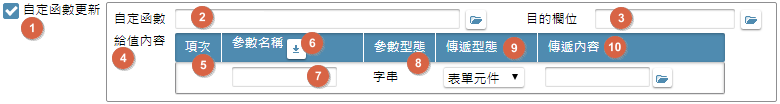
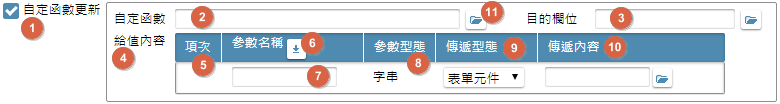
元件、按鍵加註

Changed region(s): [[0.6154, 0.0, 0.6462, 0.2308]]

diff --git a/8.10.2/IDE/Specification/ButtonAnnotation/README.md b/8.10.2/IDE/Specification/ButtonAnnotation/README.md
@@ -11,6 +11,8 @@
 ## <div id="form-action">動作說明</div>
 * 依規格關聯-主畫面 結構清單駐留元件及指定加註條件, 顯示本單內容
 * 依規格關聯-主畫面 工具列.編修鍵, 進入本單的編輯模式
+* 參照 [單據異動資料按鍵操作通則][link_rulebutton2]
+    * 下列欄位, 除規格說明中有額外說明, 否則所有欄位在瀏覽狀態: 除能 ; 編輯狀態: 致能
 
 ## <div id="object-desc">欄位說明</div>
 * <p id="fieldbreak1" style="color:blue;font-weight:bold">基本區塊</p>
@@ -19,187 +21,194 @@
         ![pic][image_fieldbreak1_STD]
     * MAE</br>
         ![pic][image_fieldbreak1_MAE]
-    * (1)按鈕名稱
+    * `(1)按鈕名稱`
         * 用途說明
         * 規格說明
             * [使用多語詞庫通則][link_ruledialog2], 回傳:按鍵多語料號, 顯示:多語詞彙
-    * (2)料號
+    * `(2)料號`
         * 用途說明
         * 規格說明
             * 顯示傳入的按鍵料號
-    * (3)按鈕類型
+    * `(3)按鈕類型`
         * 用途說明
         * 規格說明
             * 選項 系統按鈕/工具列選單/工具列按鈕/選單內選項/傳統按鈕
             * 顯示按鍵的類型; 當 [新增表單/報表][link_AddFormReport_fieldbreak1](n)設計類型=APP，隱藏
-    * (4)對應熱鍵
+    * `(4)對應熱鍵`
         * 用途說明
         * 規格說明
-            * (3)按鈕類型=工具列選單/工具列按鈕 時, 下拉熱鍵主檔, 取得功能類別=1.自定鍵的項目
-            * (3)按鈕類型=選單內選項 時, 下拉熱鍵主檔, 取得功能類別=2.小選單_選項的項目
-            * (3)按鈕類型=工具列選單/工具列按鈕 and (3)按鈕類型<>選單內選項 時, 本欄位, 除能;
-            * 當 [新增表單/報表][link_AddFormReport_fieldbreak1](n)設計類型=APP，隱藏
-    * (17)系統按鈕
+            * `(3)按鈕類型`=工具列選單/工具列按鈕 時, 下拉熱鍵主檔, 取得功能類別=1.自定鍵的項目
+            * `(3)按鈕類型`=選單內選項 時, 下拉熱鍵主檔, 取得功能類別=2.小選單_選項的項目
+            * `(3)按鈕類型`=工具列選單/工具列按鈕 and `(3)按鈕類型`<>選單內選項 時, 本欄位, 除能;
+            * 當 [新增表單/報表][link_AddFormReport_fieldbreak1](n)`設計類型`=APP，隱藏
+    * `(17)系統按鈕`
         * 用途說明
         * 規格說明
-            * (3)按鈕類型=系統按鈕 時, 致能
-            * 當 [新增表單/報表][link_AddFormReport_fieldbreak1](n)設計類型=APP，本區皆隱藏
-    * (5)保留系統按鈕功能
-        * 用途說明
-        * 規格說明
-            * 預設=true
-            * (3)按鈕類型=系統按鈕 時, 致能
-    * (6)使用系統提示訊息盒
+            * `(3)按鈕類型`=系統按鈕 時, 致能
+            * 當 [新增表單/報表][link_AddFormReport_fieldbreak1](n)`設計類型`=APP，本區皆隱藏
+    * `(5)保留系統按鈕功能`
         * 用途說明
         * 規格說明
             * 預設=true
-            * (3)按鈕類型=系統按鈕 時, 致能
-    * (7)隱藏按鈕類別
+            * `(3)按鈕類型`=系統按鈕 時, 致能
+    * `(6)使用系統提示訊息盒`
+        * 用途說明
+        * 規格說明
+            * 預設=true
+            * `(3)按鈕類型`=系統按鈕 時, 致能
+    * `(7)隱藏按鈕類別`
         * 用途說明
         * 規格說明
             * 選項 被動運作處理/控制記錄移動
-            * 當 (3)按鈕類型=隱藏按鈕時, 致能
-            * 當 (3)按鈕類型=隱藏按鈕 且 [新增表單/報表][link_AddFormReport_fieldbreak1](n)設計類型=APP，預設為 被動運作處理 且 隱藏
-    * (8)歸屬工具列選單
+            * 當 `(3)按鈕類型`=隱藏按鈕時, 致能
+            * 當 `(3)按鈕類型`=隱藏按鈕 且 [新增表單/報表][link_AddFormReport_fieldbreak1](n)`設計類型`=APP，預設為 被動運作處理 且 隱藏
+    * `(8)歸屬工具列選單`
         * 用途說明
-            * 顯示子選單所屬的按鈕名稱; 只有在(3)按鈕類型=選單內選項 時, 有值
+            * 顯示子選單所屬的按鈕名稱; 只有在`(3)按鈕類型`=選單內選項 時, 有值
         * 規格說明    
-            * 當 [新增表單/報表][link_AddFormReport_fieldbreak1](n)設計類型=APP，隱藏
-    * (9)順序
+            * 當 [新增表單/報表][link_AddFormReport_fieldbreak1](n)`設計類型`=APP，隱藏
+    * `(9)順序`
         * 用途說明
-            * 顯示子選單所屬的按鈕出現的順序; 只有在 (3)按鈕類型=選單內選項 時, 有值
+            * 顯示子選單所屬的按鈕出現的順序; 只有在 `(3)按鈕類型`=選單內選項 時, 有值
         * 規格說明     
-            * 當 [新增表單/報表][link_AddFormReport_fieldbreak1](n)設計類型=APP，隱藏
-    * (10)致能時機
+            * 當 [新增表單/報表][link_AddFormReport_fieldbreak1](n)`設計類型`=APP，隱藏
+    * `(10)致能時機`
         * 用途說明
         * 規格說明
             * 選項 新增/修改/瀏覽
-            * 當 [新增表單/報表][link_AddFormReport_fieldbreak1](n)設計類型=APP，本區皆隱藏  
-    * (11)新增
+            * 當 [新增表單/報表][link_AddFormReport_fieldbreak1](n)`設計類型`=APP，本區皆隱藏  
+    * `(11)新增`
         * 用途說明
         * 規格說明
-            * 預設=false
-    * (12)修改
+            * 預設未勾選
+    * `(12)修改`
         * 用途說明
         * 規格說明
-            * 預設=false
-    * (13)瀏覽
+            * 預設未勾選
+    * `(13)瀏覽`
         * 用途說明
         * 規格說明
-            * 預設=true
-    * (14)遊標可駐留
+            * 預設勾選
+    * `(14)遊標可駐留`
         * 用途說明
         * 規格說明
-            * 預設=false
-            * 當 [新增表單/報表][link_AddFormReport_fieldbreak1](n)設計類型=APP，隱藏
-    * (15)操作提示
+            * 預設未勾選
+            * 當 [新增表單/報表][link_AddFormReport_fieldbreak1](n)`設計類型`=APP，隱藏
+    * `(15)操作提示`
         * 用途說明
         * 規格說明
             * [使用多語詞庫通則][link_ruledialog2], 回傳:多語料號, 顯示:多語詞彙
-            * 當 [新增表單/報表][link_AddFormReport_fieldbreak1](n)設計類型=APP，隱藏
-    * (16)功能描述: 
+            * 當 [新增表單/報表][link_AddFormReport_fieldbreak1](n)`設計類型`=APP，隱藏
+    * `(16)功能描述`
         * 用途說明
         * 規格說明
-            * 顯示本按鍵於[規格描述]()的簡述內容
+            * 顯示本按鍵於[規格描述][link_SpecificationsRemarks]的簡述內容
+
 * <p id="fieldbreak2" style="color:blue;font-weight:bold">勾選記錄區塊</p>
 
     * STD</br>
         ![pic][image_fieldbreak2_STD]
     * MAE
         * 不支援, 區塊隱藏
-    * (6)勾選記錄
+    * `(6)勾選記錄`
         * 用途說明
         * 規格說明
-            * 當 [新增表單/報表][link_AddFormReport_fieldbreak1](n)設計類型=APP，隱藏
-    * (1)檔區
+            * 當 [新增表單/報表][link_AddFormReport_fieldbreak1](n)`設計類型`=APP，隱藏
+    * `(1)檔區`
         * 用途說明
         * 規格說明
             * [挑選表單檔區通則][link_ruleother4], 過濾: 表單料號
-    * (2)使用前存入資料表
+    * `(2)使用前存入資料表`
         * 用途說明
         * 規格說明
-    * (3)使用後清空資料表
+    * `(3)使用後清空資料表`
         * 用途說明
         * 規格說明
-            * 預設=false, 當 檔區 有值時, 才致能
-    * (4)同時清空勾選紀錄
+            * 預設未勾選, 當 檔區 有值時, 才致能
+    * `(4)同時清空勾選紀錄`
         * 用途說明
         * 規格說明
-            * 預設=false, 當 檔區 有值時, 才致能    
-    * (5)編修使用前存入暫存表格
+            * 預設未勾選, 當 檔區 有值時, 才致能    
+    * `(5)編修使用前存入暫存表格`
         * 用途說明
         * 規格說明
-            * 當 使用後清空資料表=true 才致能; 預設為true
+            * 當`(3)使用後清空資料表`為勾選 才致能; 預設為true
+
 * <p id="fieldbreak3" style="color:blue;font-weight:bold">執行後續</p>
 
     * STD</br>
         ![pic][image_fieldbreak3_STD]
     * MAE</br>
         ![pic][image_fieldbreak3_MAE]
-    * (1)列入排程
+    * `(1)列入排程`
         * 用途說明
         * 規格說明
-            * 預設=false
-    * (2)排程記錄
+            * 預設未勾選
+    * `(2)排程記錄`
         * 用途說明
         * 規格說明
-            * 開啟[排程設定]() 接收:排程料號, 顯示:排程名稱
-            * 當 (1)列入排程否=true, 致能
-    * (3)結束訊息
+            * 當`(1)列入排程否`為勾選, 則 致能
+            * 顯示自定函數名稱
+            * 不須輸入, 唯讀            
+    * `(12)排程記錄鍵`
         * 用途說明
         * 規格說明
-            * 預設=false
-    * (4)訊息內容
+            * 單據於編輯狀態 或 單據於瀏覽狀態 且 `(2)自定函數`有值 時, 致能
+            * 開啟[排程設定][link_Schedule] 接收:排程料號, 回傳: 排程名稱, 並寫入`(2)排程記錄`
+    * `(3)結束訊息`
+        * 用途說明
+        * 規格說明
+            * 預設未勾選
+    * `(4)訊息內容`
         * 用途說明
         * 規格說明
             * [使用多語詞庫通則][link_ruledialog2], 回傳:多語料號, 顯示:多語詞彙
-            * 當 (3)結束訊息=true, 致能
-    * (6)結束後關閉表單
+            * 當`(3)結束訊息`為勾選, 則 致能
+    * `(6)結束後關閉表單`
         * 用途說明
         * 規格說明
-            * 預設=false
-    * (7)重顯網格
+            * 預設未勾選
+    * `(7)重顯網格`
         * 用途說明
         * 規格說明
-           * 預設=false
-           * 為true, 本區欄位皆除能
-    * (8)檔區
+           * 預設未勾選
+           * 若為勾選, 本區欄位皆除能
+    * `(8)檔區`
         * 用途說明
         * 規格說明
             * [挑選表單檔區通則][link_ruleother4], 過濾: 表單料號
-    * (9)資料行更新方式
+    * `(9)資料行更新方式`
         * 用途說明
         * 規格說明
             * 選項 駐留筆/全部記錄; 預設=駐留筆
-    * (10)關聯檔區
+    * `(10)關聯檔區`
         * 用途說明
         * 規格說明
-            * 當 (9)資料行更新方式=駐留筆，則本欄位，致能; 預設=true
-    * (11)樹內容重顯
+            * 當`(9)資料行更新方式`=駐留筆，則本欄位，致能; 預設=true
+    * `(11)樹內容重顯`
         * 用途說明
         * 規格說明
-           * 預設=false
+           * 預設未勾選
            * 選項 駐留筆/正展/逆展/根節點/整顆樹; 預設:駐留筆
-           * 當 [新增表單/報表][link_AddFormReport_fieldbreak1](n)設計類型=APP，本區皆隱藏
-        * 為true，需判斷是否異動重顯網格
-            * (7)重顯網格=false, 勾選重顯網格, 並預設檔區為樹元件對應檔區(若有兩個以上的樹元件，則取得第一個樹元件的檔區)
+           * 當 [新增表單/報表][link_AddFormReport_fieldbreak1](n)`設計類型`=APP，本區皆隱藏
+        * 若為勾選, 需判斷是否異動重顯網格
+            * `(7)重顯網格`為未勾選, 勾選重顯網格, 並預設檔區為樹元件對應檔區(若有兩個以上的樹元件，則取得第一個樹元件的檔區)
             * 若樹元件未設定檔區/或找不到樹元件, 則給表頭檔區
-            * (7)重顯網格=true, 不做任何動作
+            * `(7)重顯網格`為未勾選, 不做任何動作
 
 ## <div id="save-action">儲存檢控</div>
 * 不允空白，以紅框線標註錯誤的欄位
-    * [基本區塊][link_fieldbreak1](11)新增、[基本區塊][link_fieldbreak1](12)修改、[基本區塊][link_fieldbreak1](13)瀏覽, 至少有一筆=true
-    * 當 [基本區塊][link_fieldbreak1](3)按鈕類型=隱藏按鈕, [基本區塊][link_fieldbreak1](7)隱藏按鈕類型, 不允空白
-    * 當 [執行後續區塊][link_fieldbreak3](1)列入排程=true, 當 [執行後續區塊][link_fieldbreak3](2)排程記錄, 不允空白
-    * 當 [執行後續區塊][link_fieldbreak3](3)結束訊息=true, [執行後續區塊][link_fieldbreak3](4)訊息內容, 不允空白
-    * 當 [執行後續區塊][link_fieldbreak3](7)重顯網格=true
-        * [執行後續區塊][link_fieldbreak3](8)檔區, 不允空白
-        * [執行後續區塊][link_fieldbreak3](9)資料行更新方式, 至少有一筆=true
-    * 當 [執行後續區塊][link_fieldbreak3](11)樹內容重顯=true
-        * 至少有一筆=true
-        * 必須設定 [執行後續區塊][link_fieldbreak3](7)重顯網格
+    * [基本區塊][link_fieldbreak1]
+        * 當`按鈕類型`=隱藏按鈕, 則`隱藏按鈕類型`, 不允空白
+    * [執行後續區塊][link_fieldbreak3]
+        * 當`列入排程`為勾選, 則`排程記錄`, 不允空白
+        * 當`結束訊息`為勾選, 則`訊息內容`, 不允空白
+        * 當`重顯網格`為勾選, 則`檔區`, 不允空白
 * 其它檢控
     * 檢查所屬表單之按鍵, 依據 [基本區塊][link_fieldbreak1](3)按鈕類型=工具列選單/工具列按鈕、選單內選項 是否有相同的熱鍵設定
+    * [基本區塊][link_fieldbreak1]`新增`、`修改`、`瀏覽`, 至少有一筆為勾選
+    * [執行後續區塊][link_fieldbreak3]`重顯網格`為勾選, 則`資料行更新方式`, 至少有一筆為勾選
+    * [執行後續區塊][link_fieldbreak3]`樹內容重顯`為勾選, 則`重顯網格`, 須勾選
 
 ## <div id="other-desc">其它</div>
 * [MAE加註儲存通則][link_ruleother5]
@@ -221,6 +230,6 @@
 [link_ruleother5]:../RulesOther/README#ruleother5 "共用通則_其它/MAE加註儲存通則"
 [link_ruledialog2]:../RulesDialog/README#ruledialog2 "共用通則_開啟單據/使用多語詞庫通則"
 [link_AddFormReport_fieldbreak1]:../AddFormReport/README#fieldbreak1 "新增表單/報表/區塊1"
-[temp]: "排程設定"
-
-
+[link_rulebutton2]:../RulesButton/README#rulebutton2 "共用通則_按鍵/單據異動資料按鍵操作通則"
+[link_SpecificationsRemarks]:../SpecificationsRemarks/README "規格描述"
+[link_Schedule]:../Schedule/README "排程設定"

diff --git a/8.10.2/IDE/Specification/OAUpdate/README.md b/8.10.2/IDE/Specification/OAUpdate/README.md
@@ -286,7 +286,13 @@
         * 用途說明
         * 規格說明
             * `(1)自定函數更新`為勾選, 則 致能, 否則 除能
-            * 參照 [挑選自定函數通則][link_ruledialog20]
+            * 顯示自定函數名稱
+            * 不須輸入, 唯讀
+    * `(11)自定函數鍵`
+        * 用途說明
+        * 規格說明
+            * 單據於編輯狀態 或 單據於瀏覽狀態 且 `(2)自定函數`有值 時, 致能
+            * 開窗[自定函數][link_CustomFunction], 回傳: 自定函數, 並寫入`(2)自定函數`
             * 異動時執行`(6)參數載入鍵`
     * `(3)目的欄位`
         * 用途說明
@@ -440,7 +446,6 @@
 [link_ruleother4]:../RulesOther/README#ruleother4 "共用通則_其它/挑選表單檔區通則"
 [link_ruledialog2]:../RulesDialog/README#ruledialog2 "共用通則_開啟單據/使用多語詞庫通則"
 [link_ruledialog10]:../RulesDialog/README#ruledialog10 "共用通則_開啟單據/挑選全域變數通則"
-[link_ruledialog20]:../RulesDialog/README#ruledialog20 "共用通則_開啟單據/挑選自定函數通則"
 [link_ruledialog9]:../RulesDialog/README#ruledialog9 "共用通則_開啟單據/挑選參數通則"
 [link_CustomFunction]:../CustomFunction/README "自定函數"
 [link_ruleother5]:../RulesOther/README#ruleother5 "共用通則_其它/MAE加註儲存通則"

diff --git a/8.10.2/IDE/Specification/RulesDialog/README.md b/8.10.2/IDE/Specification/RulesDialog/README.md
@@ -503,23 +503,6 @@
     * 規格說明
         * 當有本欄位, 選項 升冪/降冪; 預設 升冪; `(6)來源型態`=欄位排序, 致能, 否則清空除能
 
-## <p id="ruledialog20">挑選自定函數通則</p>
-![pic][image_ruleDialog2]
-* `(1)名稱欄位`
-    * 用途說明
-    * 規格說明
-        * 顯示自定函數名稱
-        * 不須輸入, 唯讀
-* `(2)開窗鍵`
-    * 用途說明
-    * 規格說明
-        * 單據於編輯狀態 或 單據於瀏覽狀態 且 `(1)名稱欄位`有值 時, 致能
-        * 開窗[自定函數][link_CustomFunction]
-        * 過濾: 依各單據需求, 指定其它過濾條件
-        * 回傳: 自定函數名稱
-    * 作業流程    
-        * <ps>待補</ps>   
-
 <!-- 圖示 -->
 [image_ruleDialog1]:attachment/ruleDialog1.png
 [image_ruleDialog2]:attachment/ruleDialog2.png
